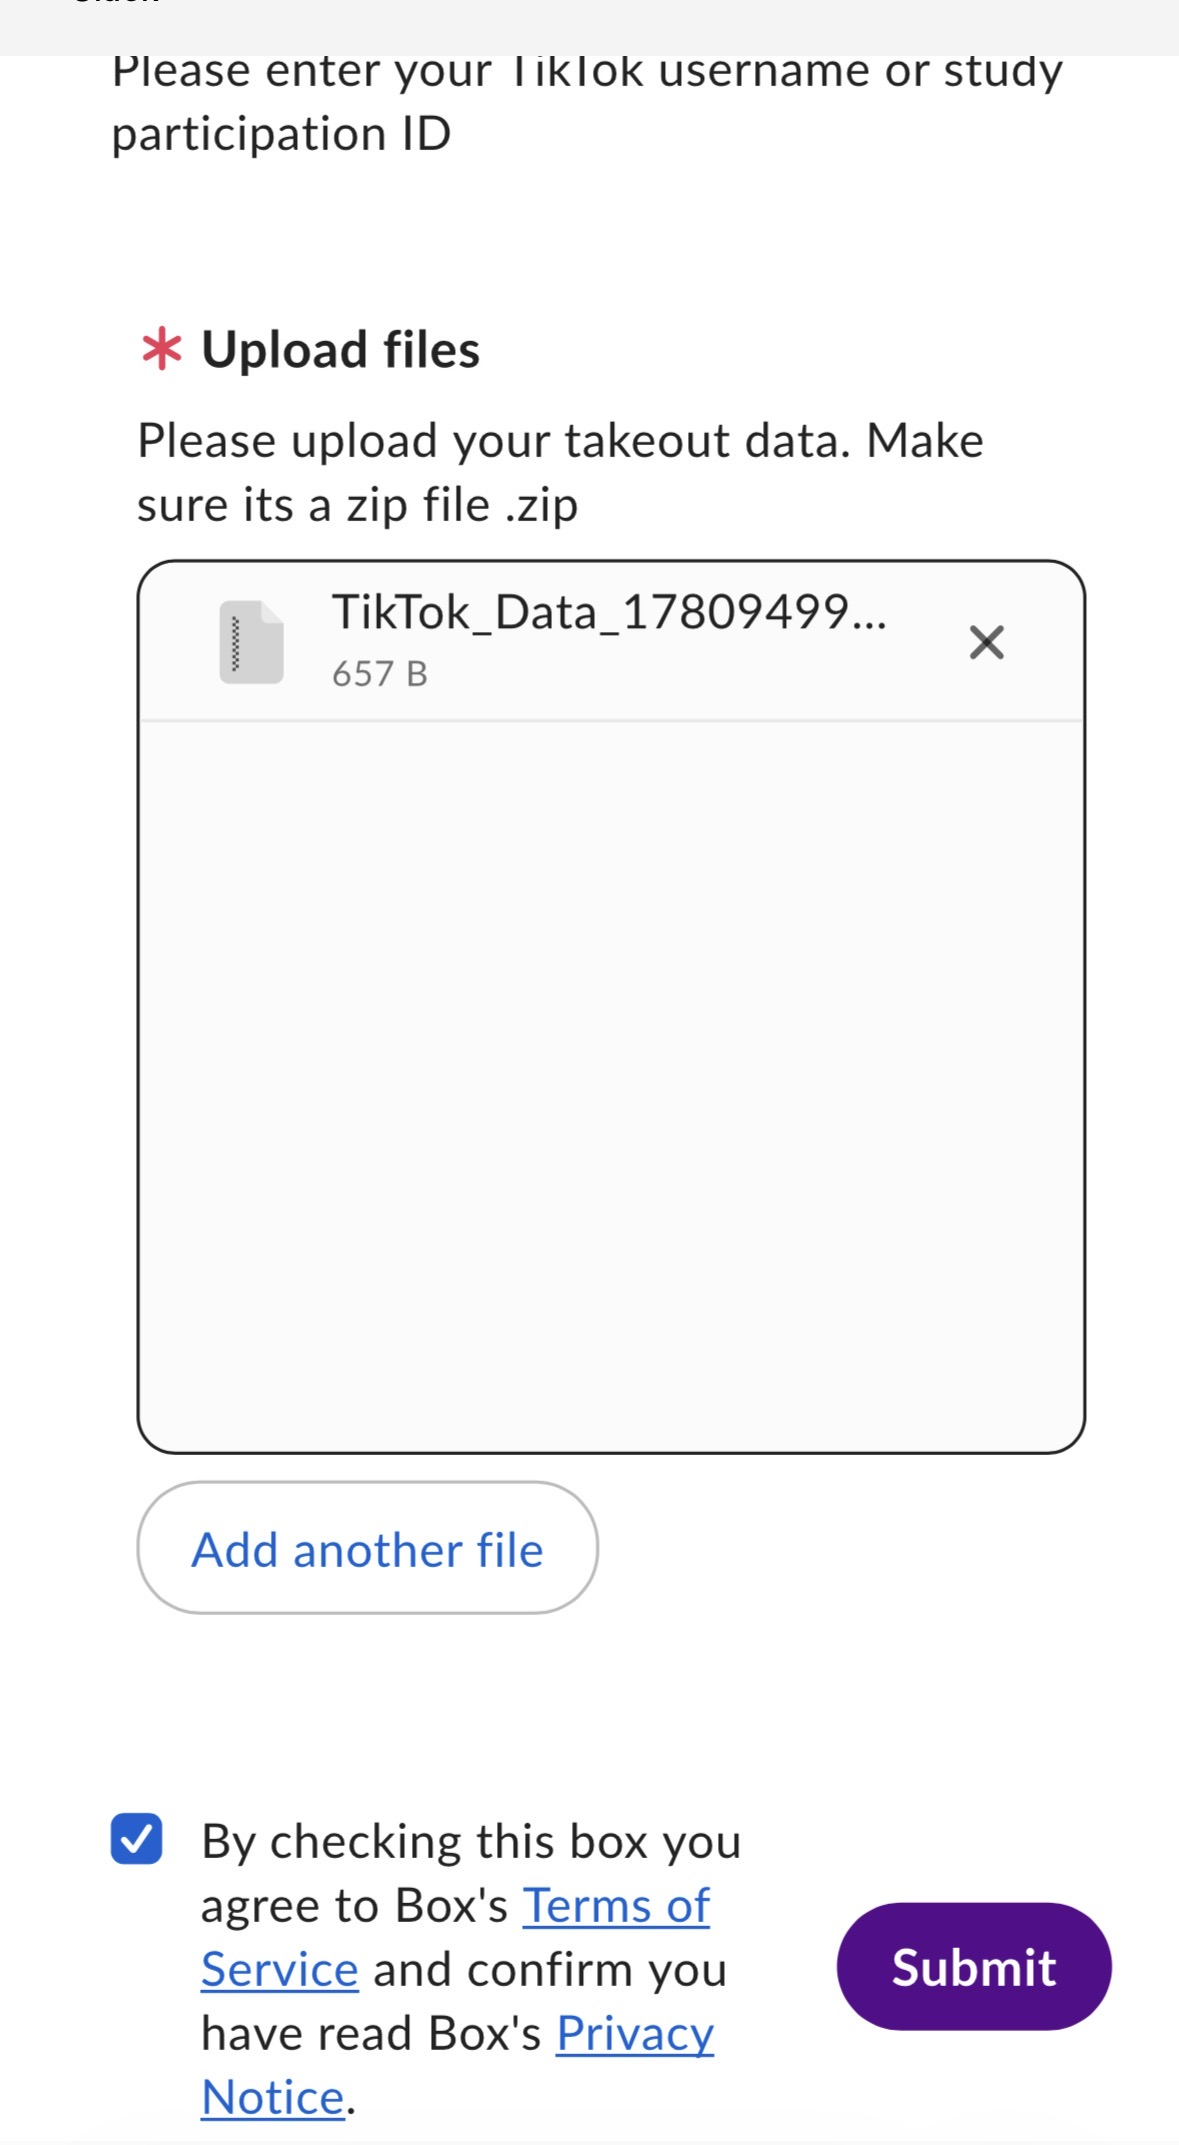
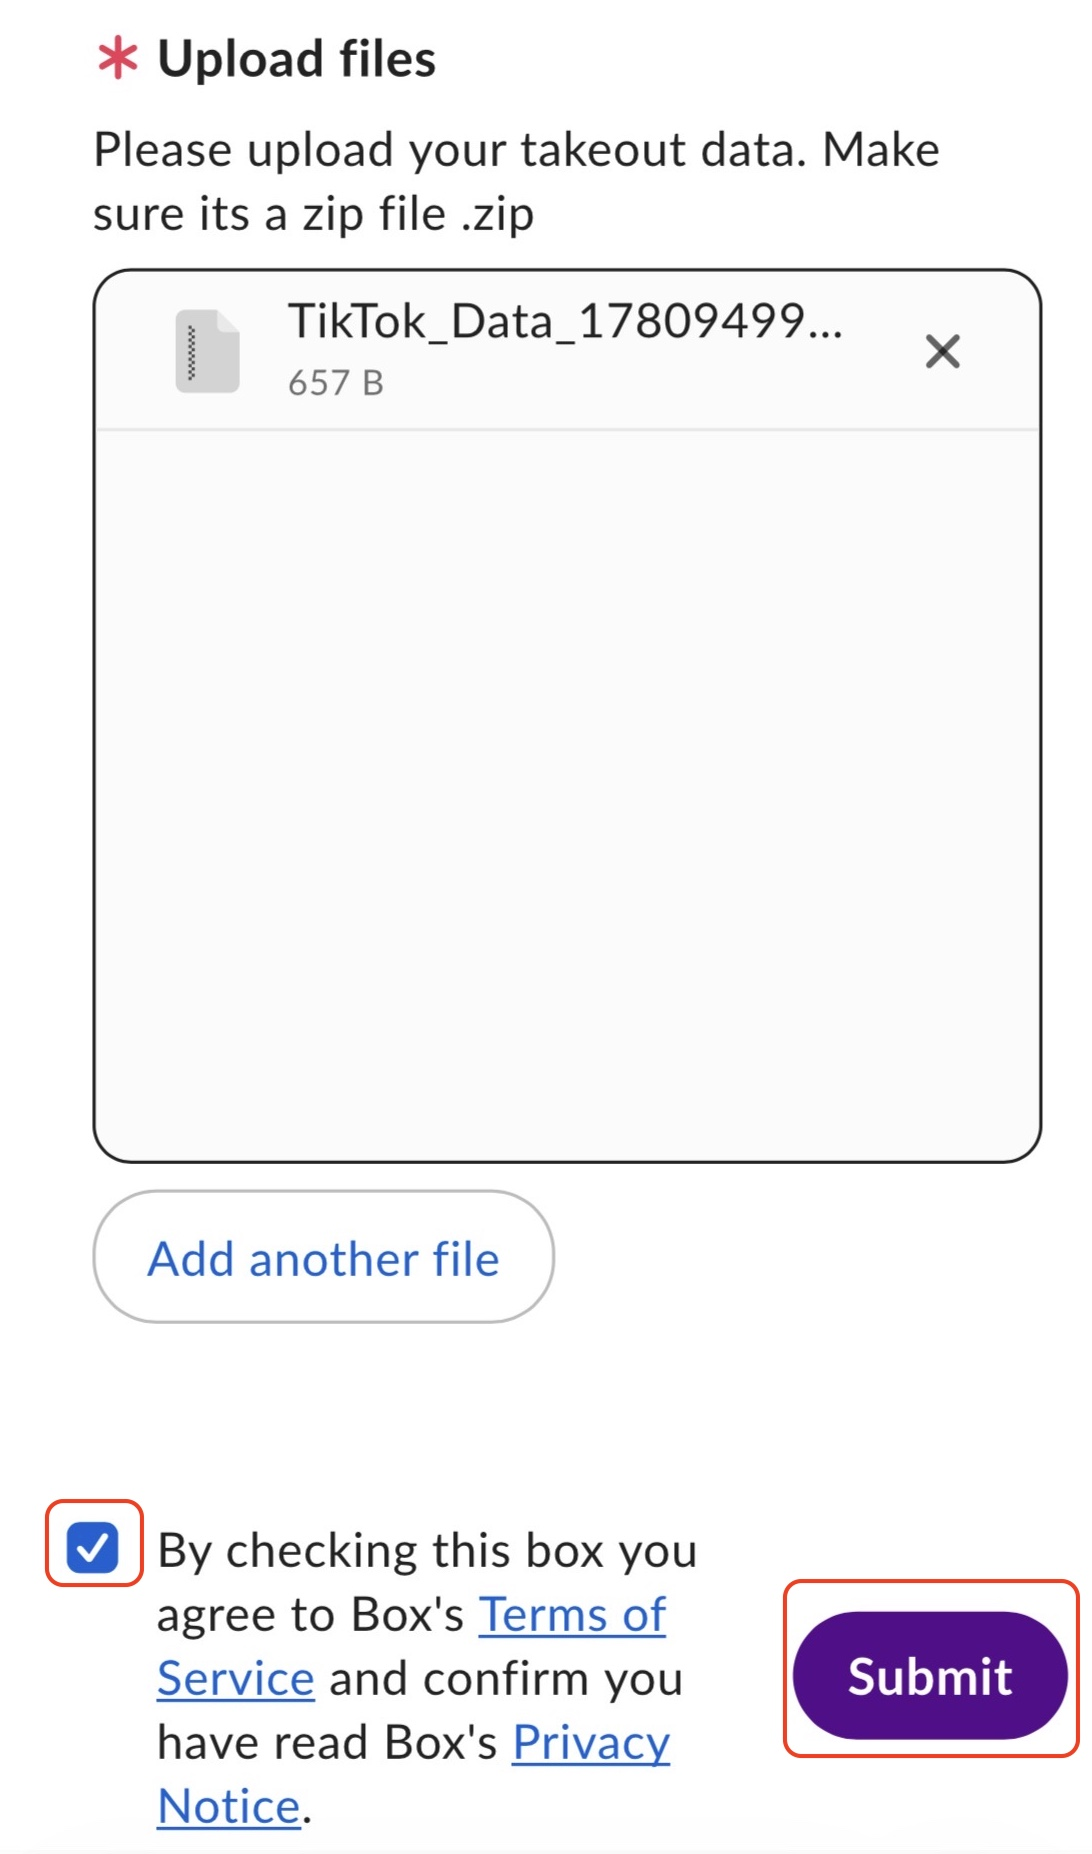
Update TikTok iOS/Android upload guides and assets

diff --git a/tiktok/tiktok_android.md b/tiktok/tiktok_android.md
@@ -19,53 +19,49 @@ ol li {padding-bottom:15px;}
 ## Part 1: Request Your Data
 <div style="display: flex; flex-direction: column; align-items: flex-start; gap: 20px;">
 <div style="text-align: left;">
-<img src="images/Android/android_1.png" width="250" style="margin-bottom: 5px;">
-<p>1. In your Tik Tok app, , go to your profile and tap the ☰ in the upper right corner. Then tap "Settings and privacy".</p>
+	<p>1. In your TikTok app <br>go to your profile and tap the ☰ in the upper right corner. </p>
+	<p>Tap <strong>Settings and privacy</strong></p>
+	<img src="images/Android/profile.png" width="250" style="margin-bottom: 5px;">
 </div>
 <div style="text-align: left;">
-<img src="images/Android/android_2.png" width="250" style="margin-bottom: 5px;">
-<p>2. Tap "Account".</p>
+	<p>2. Tap <strong>Account</strong></p>
+	<img src="images/Android/settings.png" width="250" style="margin-bottom: 5px;">
 </div>
 <div style="text-align: left;">
-<img src="images/Android/android_3.png" width="250" style="margin-bottom: 5px;">
-<p>3. Tap "Download your data".</p>
+	<p>3. Tap <strong>Download your data</strong> </p>
+	<img src="images/Android/account.png" width="250" style="margin-bottom: 5px;">
 </div>
 <div style="text-align: left;">
-<p>4. Tap on <strong>Request data</strong> on <br><strong>File format</strong> select <em>JSON</em><br> .</p>
-<img src="images/universal/tiktok_file_format.jpg" width="250" style="margin-bottom: 5px;">
+	<p>4. Tap <strong>Request data</strong><br>
+  In the <em>File format </em> section select <strong>JSON</strong></p>
+	<img src="images/universal/tiktok_file_format.jpg" width="250" style="margin-bottom: 5px;">
 </div>
 <div style="text-align: left;">
-<p>Scroll to <em>Select data to download</em> and  select as shown below</p>
+	<p>In the <em>Select data to download</em><br> and select as shown below</p>
+	<img src="images/universal/tiktok_select_data.jpg" width="250" style="margin-bottom: 5px;">
+	<p>Finally tap <button style="background-color: #ED2939; color: white;"> Request data </button> button </p>
+</div>
+<div style="text-align: left; padding-top:5px;" >
+	<p>Your data file will not be immediately ready <br>It might take a few minutes or up to <strong>4</strong> days <br> Remember to check frequently to see when your data file is ready </p>
+</div>
 
-<img src="images/universal/tiktok_select_data.jpg" width="250" style="margin-bottom: 5px;">
-<p>5. Tap "Request data".</p>
-</div>
-<div style="padding-top:30px;"></div>
-<h1 style="text-align: left;"><strong style="font-size: 30px; color: #FF0000">STOP!</strong></h1> 
-<p>Your data file won’t be ready immediately. For some users it might take a few minutes and for others it might take up to  <strong>4</strong> days. Remember to check back daily on this screen to see when your data file is ready. We will also be sending out email reminders to check back for it.</p>
-<br/> 
-</div>
-<div style="padding-top:30px;"></div>
 ## Part 2: Download Your Data
-<div style="display: flex; flex-direction: column; align-items: flex-start; gap: 20px;">
-<div style="text-align: left;">
-<img src="images/Android/andorid_6.png" width="250" style="margin-bottom: 5px;">
-<p>6. Return to your "Download Tik Tok data" page ((Menu > Settings and privacy > Account > Download Your Data)</p>
+<div style="display: flex; flex-direction: column; align-items: flex-start; gap: 20px; padding-top:10px;">
+	<div id="iphone" style="text-align: left;">
+		<p>Return to  <strong>Download data</strong> page<br>
+		<strong>Profile</strong>><strong>Settings and privacy</strong> ><strong> Account</strong> ><strong> Download your Data</strong></p>
+		<p>Tap the <strong>Download data</strong> tab<br>Tap <button style="background-color: #ED2939; color: white;">Download</button> button.</p>
+		<img src="images/universal/tiktok_download.jpg" width="250" style="margin-bottom: 5px;x">
+	</div>
+	<div style="text-align: left;">
+		<p>Verify your account with code sent to your email or phone </p>
+		<img src="images/universal/tiktok_verify_download.jpg" width="250" style="margin-bottom: 5px;">
+	</div>
+	<div style="text-align: left;">
+			<p><strong>File ready</strong> page confirms download will start automatically</p>
+		<img src="images/Android/downloaded.png" width="250" style="margin-bottom: 5px;">
+	</div>
 </div>
-<div style="text-align: left;">
-<img src="images/Android/android_7.png" width="250" style="margin-bottom: 5px;">
-<p>7. At the top, there are two tabs. Tap the second, "Download data". Then select "Download".</p>
-</div>
-<div style="text-align: left;">
-<img src="images/Android/android_8.png" width="250" style="margin-bottom: 5px;">
-<p>8. If prompted, authenticate your account with your gmail or phone number.</p>
-</div>
-<div style="text-align: left;">
-<img src="images/Android/android_9.png" width="250" style="margin-bottom: 5px;">
-<p>9. This will bring up a page in your browser. Once the page has loaded, press "Open file" at the bottom of the screen.</p>
-</div>
-</div>
-<div style="padding-top:30px;"></div>
 
 ## Part 3: Share Your Data with Researchers
 <div style="display: flex; flex-direction: column; align-items: flex-start; gap: 20px;">
@@ -73,25 +69,27 @@ ol li {padding-bottom:15px;}
 		<p>Navigate to the data upload page located at: <a href="https://nyu.app.box.com/f/e06d0a67ae564d20b1c1024b12c3ea97" target="_blank">https://nyu.app.box.com/f/e06d0a67ae564d20b1c1024b12c3ea97</a></p>
 		<ul>
 			<li>Enter your participation ID in the Identifier section.</li>
-			<li>Tap <button style="background-color: #e7e7e7; color:black;"> Select Files</button> and then press <button style="background-color: #6A6767;color: white;"> Choose Files</button></li>
-			<li>Select the TikTok data ZIP file (file name starts with "TikTok_Data_"). Do not extract the file.</li>
+			<li>Click on <button style="background-color: #e7e7e7; color:black;">Select Files</button>.</li>
 		</ul>
 		<img src="images/universal/tiktok_data_box.png" width="250" style="margin-bottom: 5px;">
 	</div>
 	<div style="text-align: left;">
-		<p>After the file appears in Upload files, check the Box terms/privacy confirmation checkbox.</p>
-		<img src="images/Android/android_12.png" width="250" style="margin-bottom: 5px;">
+		<p> Tap <button style="background-color: #6A6767;color: white;"> Choose Files</button></p>
+		<img src="images/universal/tiktok_choose_file.jpg" width="250" style="margin-bottom: 5px;">
+		<p>Select the TikTok data ZIP file (file name starts with <strong>TikTok_Data_</strong>)</p>
 	</div>
 	<div style="text-align: left;">
+		<p>After the file appears in Upload files, check the Box terms/privacy confirmation checkbox.</p>
 		<p>Once the file is ready, tap <button style="background-color: #57068c; color:white;">Submit</button>.</p>
 		<img src="images/universal/tiktok_submit.jpg" width="250" style="margin-bottom: 5px;">
 	</div>
-	<div style="text-align: left;">
+		<div style="text-align: left;">
 		<p>Your file is successfully shared and you can close your browser.</p>
 		<img src="images/universal/tiktok_upload_successful.png" width="250" style="margin-bottom: 5px;">
 	</div>
 </div>
 <div style="padding-top:30px;"></div>
-<div style="padding-top:80px;"></div>
-
-If you have trouble with these steps, please reach out to <a href="mailto:[email redacted]">email support</a>. Our team will be in touch to help you troubleshoot.  
+<div>
+	If you encounter issues, please reach out to <a href="mailto:[email redacted]">[email redacted]</a>
+	<br> Our team will be in touch to help you troubleshoot
+</div> 

diff --git a/tiktok/tiktok_ios.md b/tiktok/tiktok_ios.md
@@ -29,7 +29,6 @@ ol li {padding-bottom:15px;}
 an iphone or ipad</p>
 
 ## Part 1: Request Your Data
-
 <div style="display: flex; flex-direction: column; align-items: flex-start; gap: 20px;">
 <div style="text-align: left;">
 <p>1. In your TikTok app, go to your profile and tap the ☰ in the upper right corner. </p>
@@ -49,30 +48,33 @@ an iphone or ipad</p>
 </div>
 <div style="text-align: left;">
 <p>5. Tap <strong>Request data</strong><br>
-In the <em>File format</em> select <em>JSON</em><br></p>
+In the <em>File format </em> section select <strong>JSON</strong></p>
 <img src="images/universal/tiktok_file_format.jpg" width="250" style="margin-bottom: 5px;">
 </div>
 <div style="text-align: left;">
-<p>6. Scroll to <em>Select data to download</em> and <br> select as shown below</p>
+<p>6. In the <em>Select data to download </em><br> and select as shown below</p>
 <img src="images/universal/tiktok_select_data.jpg" width="250" style="margin-bottom: 5px;">
-<p>Finally tap <strong style="color: #FF0000">Request data</strong>button </p>
+<p>Finally tap <button style="background-color: #ED2939; color: white;"> Request data </button> button </p>
 </div>
-<h1 style="text-align: left;"><strong style="font-size: 30px; color: #FF0000">STOP!</strong></h1> 
-<p>Your data file won’t be ready immediately. It might take a few minutes or up to <strong>4</strong> days <br> Remember to check back daily on this screen to see when your data file is ready<br> We will also be sending out email reminders to check back for it</p>
-<br/> 
-<div style="padding-top:30px;"></div>
+<div style="text-align: left; padding-top:5px;" >
+<p>Your data file will not be immediately ready <br>It might take a few minutes or up to <strong>4</strong> days <br> Remember to check frequently to see when your data file is ready </p>
 </div>
 
 ## Part 2: Download Your Data
-<div style="display: flex; flex-direction: column; align-items: flex-start; gap: 20px;">
+<div style="display: flex; flex-direction: column; align-items: flex-start; gap: 20px; padding-top:10px;">
 	<div id="iphone" style="text-align: left;">
-		<p>Return to  <strong>Download TikTok data</strong> page (Menu > Settings and privacy > Account > Download Your Data)</p>
-		<p>Tap the <strong>Download data</strong> tab then select <button style="background-color: #ED2939; color: white;">Download</button> button.</p>
+		<p>Return to  <strong>Download data</strong> page<br>
+		<strong>Profile</strong>><strong>Settings and privacy</strong> ><strong> Account</strong> ><strong> Download your Data</strong></p>
+		<p>Tap the <strong>Download data</strong> tab<br>Tap <button style="background-color: #ED2939; color: white;">Download</button> button.</p>
 		<img src="images/universal/tiktok_download.jpg" width="250" style="margin-bottom: 5px;x">
 	</div>
 	<div style="text-align: left;">
+		<p>Verify your account with code sent to your email or phone </p>
+		<img src="images/universal/tiktok_verify_download.jpg" width="250" style="margin-bottom: 5px;">
+	</div>
+	<div style="text-align: left;">
 		<p>On the pop-up window that appears, tap <strong style="color: #6495ED;">Download</strong>.</p>
-		<img src="images/iOS/iphone_7.png" width="250" style="margin-bottom: 5px;">
+		<img src="images/iOS/download.jpg" width="250" style="margin-bottom: 5px;">
 	</div>
 </div>
 
@@ -82,16 +84,17 @@ In the <em>File format</em> select <em>JSON</em><br></p>
 		<p>Navigate to the data upload page located at: <a href="https://nyu.app.box.com/f/e06d0a67ae564d20b1c1024b12c3ea97" target="_blank">https://nyu.app.box.com/f/e06d0a67ae564d20b1c1024b12c3ea97</a></p>
 		<ul>
 			<li>Enter your participation ID in the Identifier section.</li>
-			<li>Click on <button style="background-color: #e7e7e7; color:black;"> Select Files</button> and then press <button style="background-color: #6A6767;color: white;"> Choose Files</button></li>
-			<li>Select the TikTok data ZIP file (file name starts with "TikTok_Data_"). Do not extract the file.</li>
+			<li>Click on <button style="background-color: #e7e7e7; color:black;"> Select Files</button> </li>
 		</ul>
 		<img src="images/universal/tiktok_data_box.png" width="250" style="margin-bottom: 5px;">
 	</div>
 	<div style="text-align: left;">
-		<p>After the file appears in Upload files, check the Box terms/privacy confirmation checkbox.</p>
-		<img src="images/iOS/iphone_11.png" width="250" style="margin-bottom: 5px;">
-	</div>
+		<p> Tap <button style="background-color: #6A6767;color: white;"> Choose Files</button></p>
+		<img src="images/universal/tiktok_choose_file.jpg" width="250" style="margin-bottom: 5px;">
+		<p>Select the TikTok data ZIP file (file name starts with <strong>TikTok_Data_</strong>)</p>
+  </div>
 	<div style="text-align: left;">
+		<p>After the file appears in Upload files, check the Box terms/privacy confirmation checkbox.</p>
 		<p>Once the file is ready, tap <button style="background-color: #57068c; color:white;">Submit</button>.</p>
 		<img src="images/universal/tiktok_submit.jpg" width="250" style="margin-bottom: 5px;">
 	</div>
@@ -100,6 +103,8 @@ In the <em>File format</em> select <em>JSON</em><br></p>
 		<img src="images/universal/tiktok_upload_successful.png" width="250" style="margin-bottom: 5px;">
 	</div>
 </div>
+<div style="padding-top:30px;"></div>
 <div>
-	If you have trouble with these steps, please reach out to <a href="mailto:[email redacted]">email support</a>. Our team will be in touch to help you troubleshoot.
+	If you encounter issues, please reach out to <a href="mailto:[email redacted]">[email redacted]</a>
+	<br> Our team will be in touch to help you troubleshoot
 </div> 